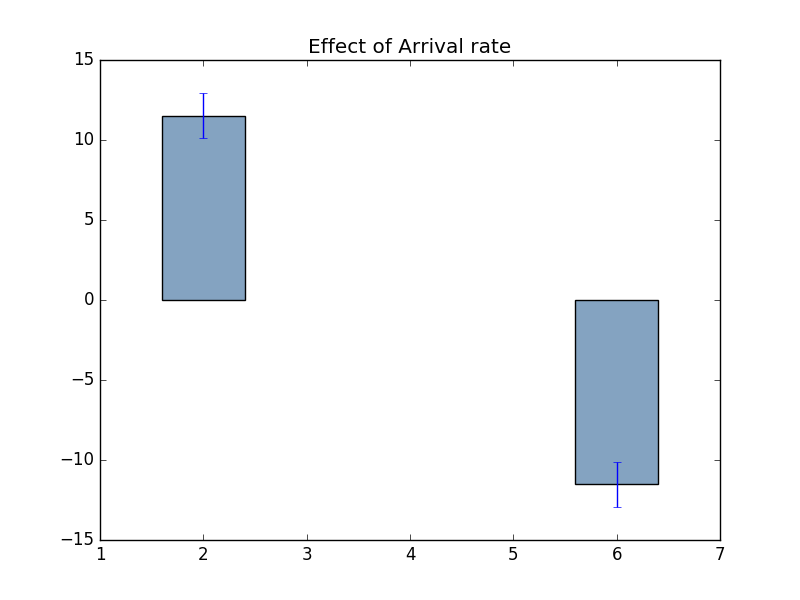
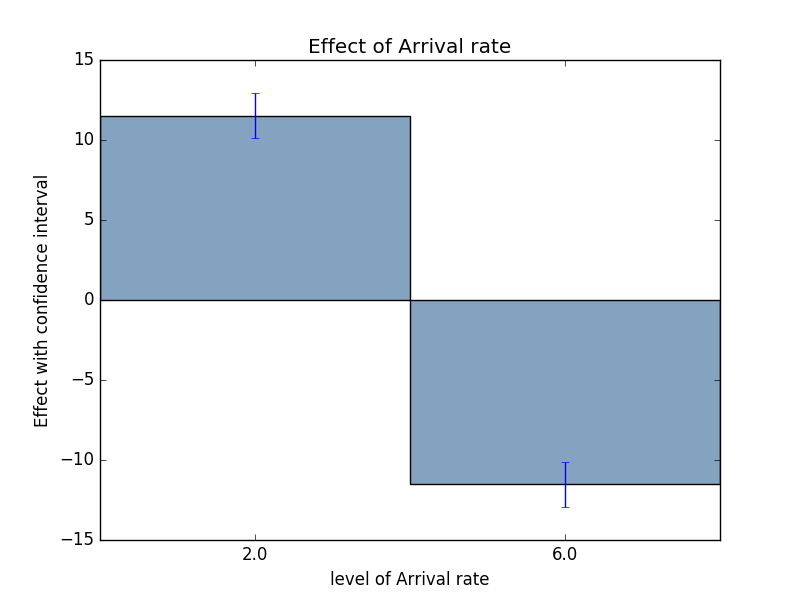
Improved graphs of main effects

diff --git a/sparkgen-bigdl/analysis.py b/sparkgen-bigdl/analysis.py
@@ -7,6 +7,7 @@ import matplotlib.pyplot as plt
 
 create_output = True
 
+
 def square(x): return x ** 2
 
 
@@ -515,8 +516,15 @@ data_df = np.array(dof[7])*2
 data_sd = standardDeviations[h]
 name_low = names[h][0]*1000
 name_high = names[h][1]*1000
-plt.bar([name_low,name_high], data_m, yerr=t.ppf(1-alpha, data_df)*data_sd, color=bar_color, align='center')
+fig, ax = plt.subplots()
+width = 1
+ind = np.arange(len(data_m))
+ax.bar(ind, data_m, width, yerr=t.ppf(1-alpha, data_df)*data_sd, color=bar_color, align='center')
+ax.set_xticks(ind+width/2)
+ax.set_xticklabels([name_low, name_high], minor=False)
 plt.title(title)
+plt.xlabel("level of " + titles[h])
+plt.ylabel('Effect with confidence interval')
 if create_output:
     plt.savefig("generated/"+title+".png")
     plt.show()
@@ -528,8 +536,15 @@ data_df = np.array(dof[7])*2
 data_sd = standardDeviations[h]
 name_low = names[h][0]
 name_high = names[h][1]
-plt.bar([name_low,name_high], data_m, yerr=t.ppf(1-alpha, data_df)*data_sd, color=bar_color, align='center')
+fig, ax = plt.subplots()
+width = 1
+ind = np.arange(len(data_m))
+ax.bar(ind, data_m, width, yerr=t.ppf(1-alpha, data_df)*data_sd, color=bar_color, align='center')
+ax.set_xticks(ind+width/2)
+ax.set_xticklabels([name_low, name_high], minor=False)
 plt.title(title)
+plt.xlabel("level of " + titles[h])
+plt.ylabel('Effect with confidence interval')
 if create_output:
     plt.savefig("generated/"+title+".png")
     plt.show()
@@ -541,8 +556,15 @@ data_df = np.array(dof[7])*2
 data_sd = standardDeviations[h]
 name_low = names[h][0]
 name_high = names[h][1]
-plt.bar([name_low,name_high], data_m, yerr=t.ppf(1-alpha, data_df)*data_sd, color=bar_color, align='center')
+fig, ax = plt.subplots()
+width = 1
+ind = np.arange(len(data_m))
+ax.bar(ind, data_m, width, yerr=t.ppf(1-alpha, data_df)*data_sd, color=bar_color, align='center')
+ax.set_xticks(ind+width/2)
+ax.set_xticklabels([name_low, name_high], minor=False)
 plt.title(title)
+plt.xlabel("level of " + titles[h])
+plt.ylabel('Effect with confidence interval')
 if create_output:
     plt.savefig("generated/"+title+".png")
     plt.show()
